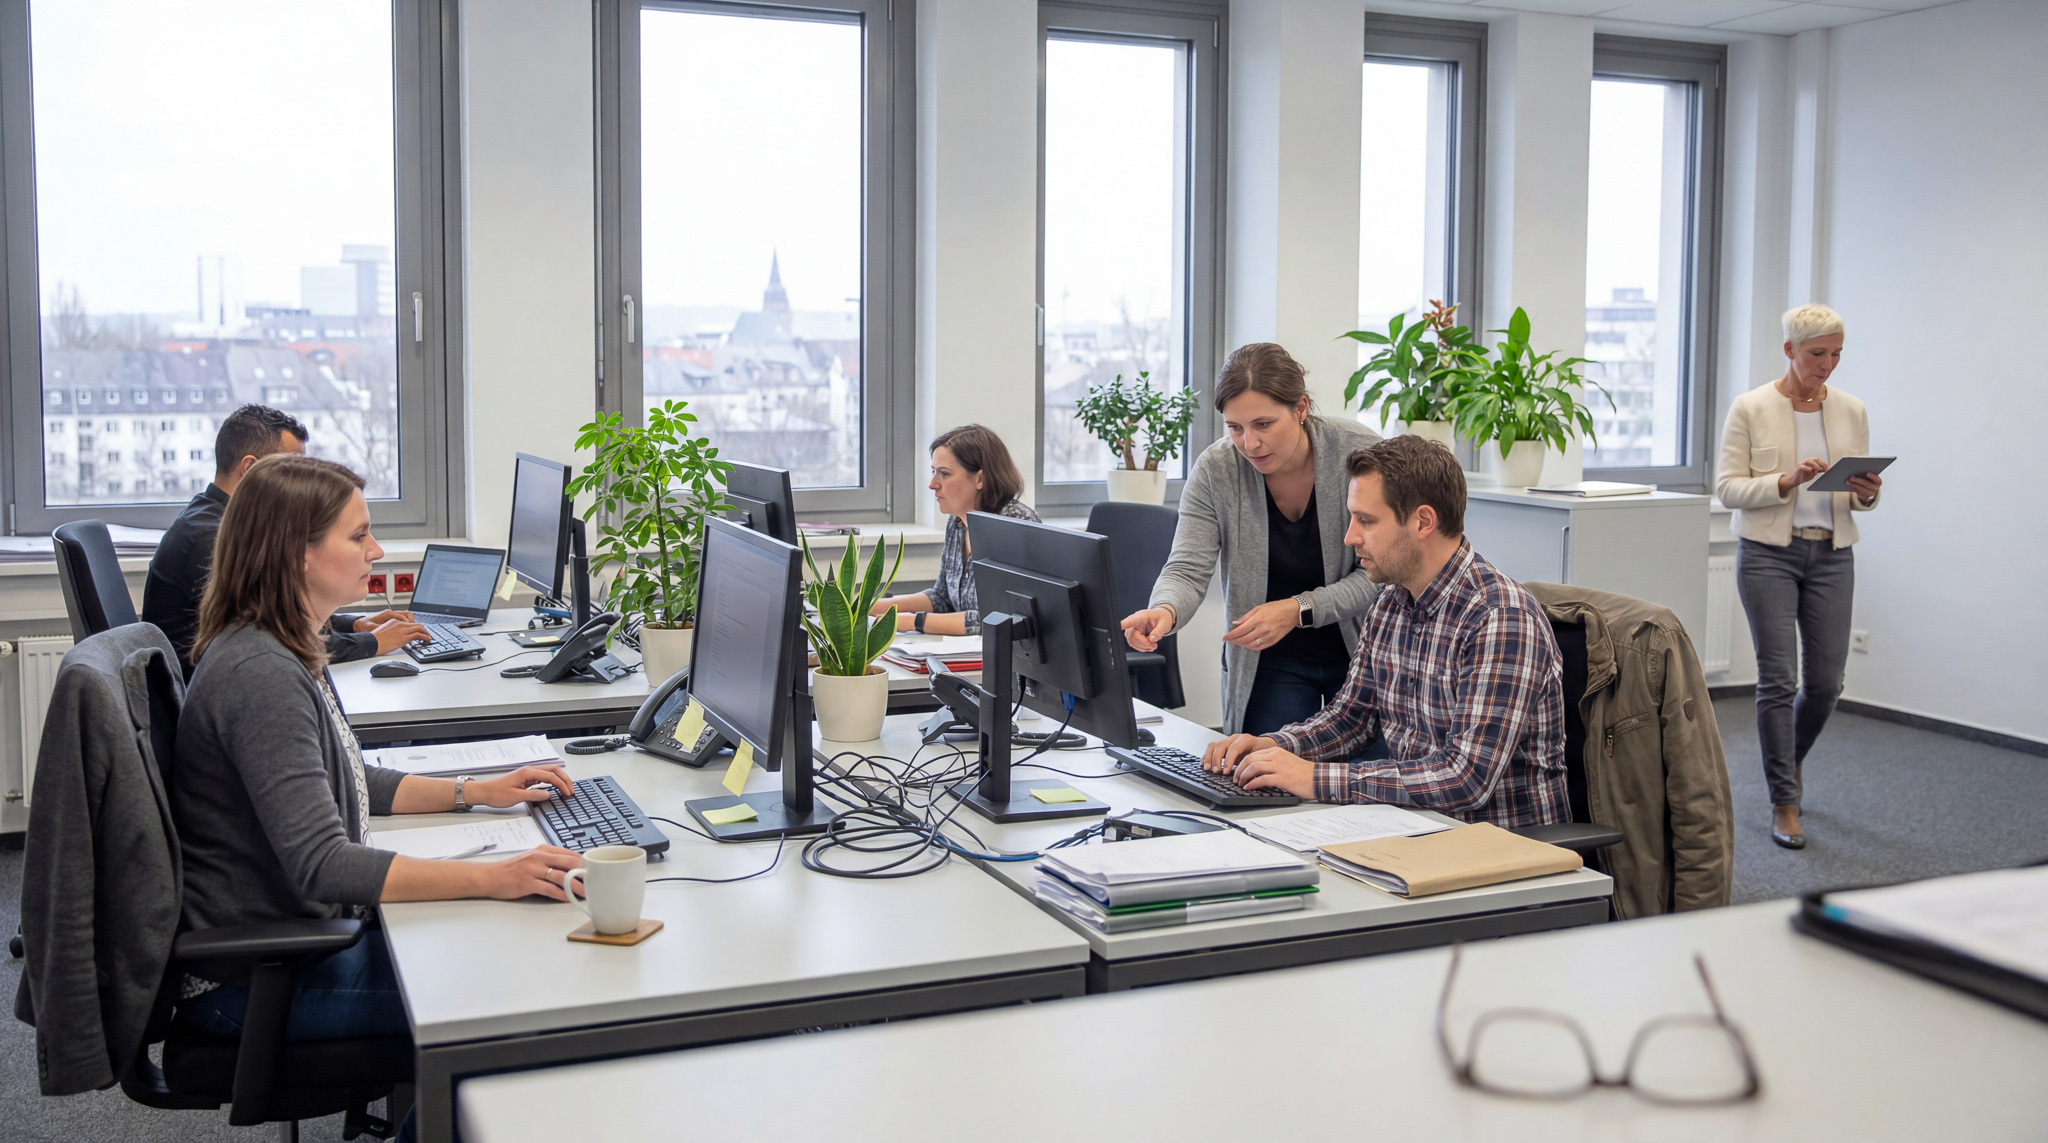
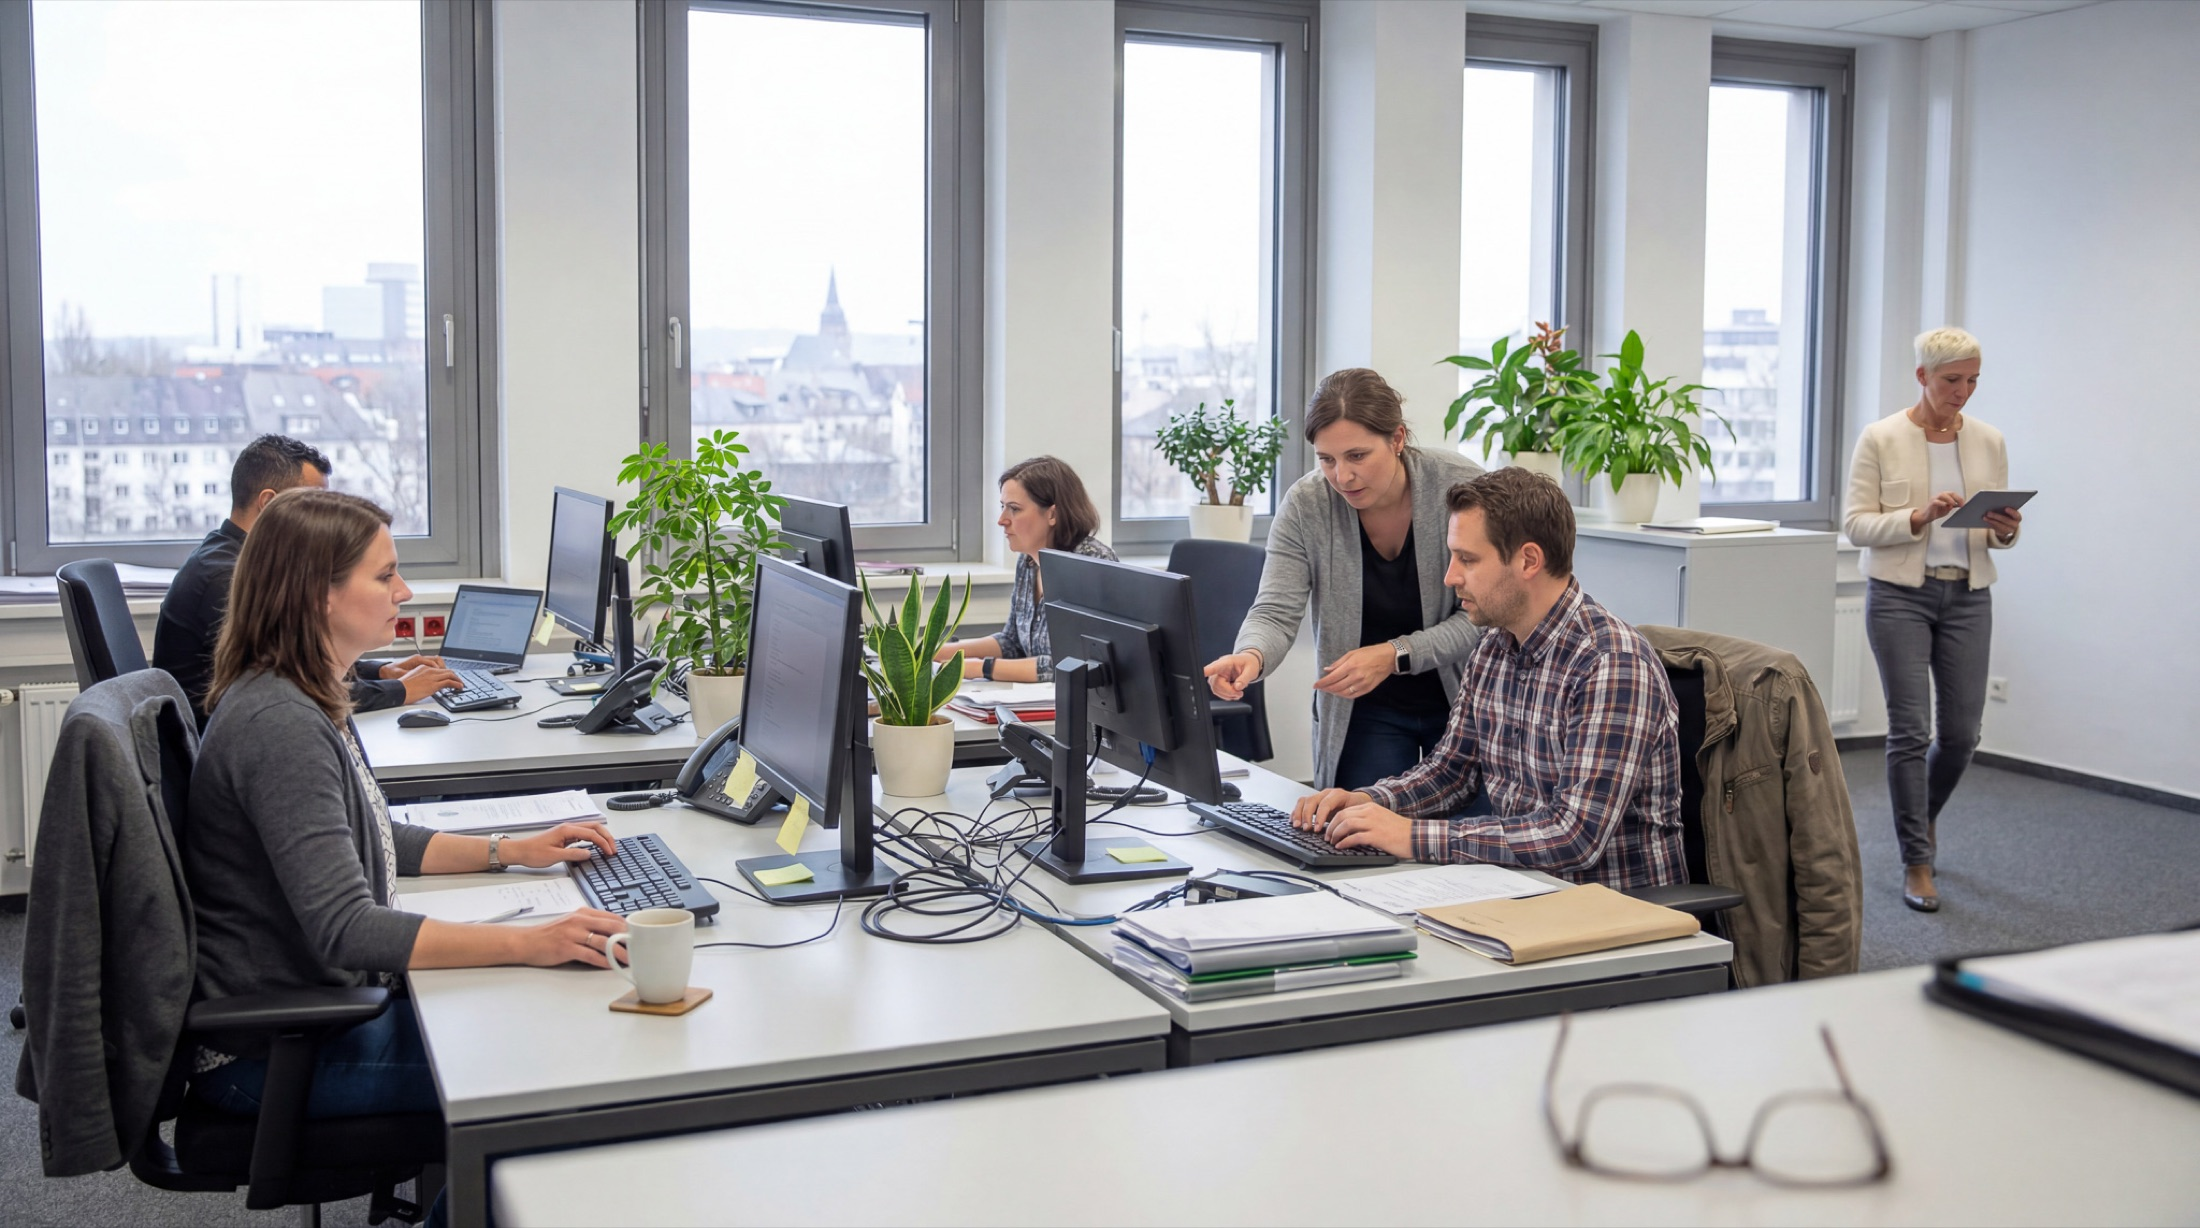
feat(wissen+themenfeld): immersiver Wissen-Hero + Themenfeld-Direkteinstieg
- Wissen-Seite: Text-Header → immersiver Vollbild-Hero analog zur Startseite
  (Verwaltungsbüro-Motiv, Overlay, Headline/Lead darüber).
- Themenfeld-Detailseiten: keine vorgeschaltete Kategorie-Auswahlseite mehr.
  Man landet direkt auf den Tools des Themenfelds; eine Reiter-/Subnav oben
  (Alle + Kategorien, mit Counts) filtert optional nach Bereich.

Changed region(s): [[0.2812, 0.3368, 0.3438, 0.4287], [0.5625, 0.643, 0.5938, 0.6737], [0.4375, 0.6737, 0.4688, 0.7043]]

diff --git a/src/components/blocks/category/ThemenfeldTabs.tsx b/src/components/blocks/category/ThemenfeldTabs.tsx
@@ -1,0 +1,104 @@
+"use client";
+
+import { useState } from "react";
+
+import { ToolCard } from "@/components/cards/ToolCard";
+import { BrandIcon, type BrandIconName } from "@/components/icons/BrandIcon";
+import { cn } from "@/lib/utils";
+import type { CategoryDefinition, ToolCardSummary } from "@/types/content";
+
+interface ThemenfeldTabsProps {
+  categories: CategoryDefinition[];
+  toolsByCategory: Record<string, ToolCardSummary[]>;
+}
+
+/**
+ * Themenfeld-Direkteinstieg: man landet sofort auf den Tools des ganzen
+ * Themenfelds. Eine Reiter-/Subnav oben filtert optional auf eine Kategorie —
+ * keine vorgeschaltete Auswahlseite mehr.
+ */
+export function ThemenfeldTabs({
+  categories,
+  toolsByCategory,
+}: ThemenfeldTabsProps) {
+  const [active, setActive] = useState<string>("alle");
+
+  const allTools = categories.flatMap((c) => toolsByCategory[c.slug] || []);
+  const tools = active === "alle" ? allTools : toolsByCategory[active] || [];
+
+  const tabs: { slug: string; name: string; icon?: BrandIconName; count: number }[] =
+    [
+      { slug: "alle", name: "Alle Tools", count: allTools.length },
+      ...categories.map((c) => ({
+        slug: c.slug,
+        name: c.name,
+        icon: c.icon,
+        count: (toolsByCategory[c.slug] || []).length,
+      })),
+    ];
+
+  return (
+    <div>
+      {/* Reiter-/Subnav */}
+      <div
+        role="tablist"
+        aria-label="Bereich wählen"
+        className="flex flex-wrap items-center gap-2 border-b border-border pb-5"
+      >
+        {tabs.map((t) => {
+          const isActive = active === t.slug;
+          return (
+            <button
+              key={t.slug}
+              type="button"
+              role="tab"
+              aria-selected={isActive}
+              onClick={() => setActive(t.slug)}
+              className={cn(
+                "inline-flex h-9 items-center gap-2 rounded-full px-4 font-ui text-[13px] font-medium transition-colors",
+                isActive
+                  ? "bg-brand text-white"
+                  : "bg-white text-mid hover:bg-cream hover:text-dark",
+              )}
+            >
+              {t.icon && (
+                <BrandIcon
+                  name={t.icon}
+                  size={15}
+                  className={isActive ? "text-white" : "text-brand-dark"}
+                />
+              )}
+              {t.name}
+              <span
+                className={cn(
+                  "font-mono text-[11px]",
+                  isActive ? "text-white/70" : "text-soft",
+                )}
+              >
+                {t.count}
+              </span>
+            </button>
+          );
+        })}
+      </div>
+
+      {/* Tool-Liste */}
+      {tools.length > 0 ? (
+        <div className="mt-6 space-y-3">
+          {tools.map((tool) => (
+            <ToolCard key={tool.slug} tool={tool} variant="row" />
+          ))}
+        </div>
+      ) : (
+        <div className="mt-6 rounded-2xl border border-dashed border-border bg-cream p-12 text-center">
+          <p className="font-serif text-[20px] font-normal text-dark">
+            Tools in Vorbereitung
+          </p>
+          <p className="mt-2 font-sans text-[14px] text-soft">
+            Für diesen Bereich kuratieren wir gerade die passenden Tools.
+          </p>
+        </div>
+      )}
+    </div>
+  );
+}

diff --git a/src/app/(frontend)/wissen/page.tsx b/src/app/(frontend)/wissen/page.tsx
@@ -1,4 +1,5 @@
 import type { Metadata } from "next";
+import Image from "next/image";
 
 import { ArticleCard } from "@/components/cards/ArticleCard";
 import { WissenSidebar } from "@/components/sidebars/WissenSidebar";
@@ -15,25 +16,45 @@ export default function WissenIndexPage() {
 
   return (
     <>
-
-      <div className="container mx-auto px-6 lg:px-10 py-12 lg:py-20">
-        <header className="max-w-3xl space-y-5 mb-12 lg:mb-16">
-          <div className="font-mono text-[11px] font-bold uppercase tracking-[0.18em] text-brand">
-            Wissen & Magazin
+      {/* HERO — immersiv, analog zur Startseite */}
+      <section className="bg-cream">
+        <div className="container mx-auto px-4 sm:px-6 lg:px-10 pt-4 lg:pt-6 pb-8 lg:pb-12">
+          <div className="relative flex items-center overflow-hidden rounded-3xl min-h-[380px] lg:min-h-[460px]">
+            <Image
+              src="/brand/Images/magnific_open-office-inside-a-germ_UyKJgh9wny.jpg"
+              alt="Mitarbeitende in einem Verwaltungsbüro bei der Arbeit"
+              fill
+              sizes="(min-width: 1024px) 1200px, 100vw"
+              className="object-cover"
+              priority
+            />
+            <div aria-hidden className="absolute inset-0 bg-black/15" />
+            <div
+              aria-hidden
+              className="absolute inset-0 bg-gradient-to-r from-black/75 via-black/35 to-transparent"
+            />
+            <div className="relative z-10 max-w-xl p-7 sm:p-10 lg:p-12">
+              <div className="flex items-center gap-2 font-mono text-[11px] font-bold uppercase tracking-[0.2em] text-white/70">
+                <span aria-hidden className="h-1.5 w-1.5 rounded-full bg-accent" />
+                Wissen & Magazin
+              </div>
+              <h1
+                style={{ lineHeight: 1.05 }}
+                className="mt-5 font-serif text-[clamp(32px,4.4vw,56px)] font-normal tracking-tight text-white"
+              >
+                Was diese Woche zählt.
+              </h1>
+              <p className="mt-5 font-sans text-[16px] lg:text-[18px] leading-[1.6] text-white/85">
+                Redaktionelle Beiträge, Leitfäden und aktuelle Themen aus der
+                digitalen Verwaltung — geschrieben von Menschen, die selbst aus
+                der Verwaltung kommen.
+              </p>
+            </div>
           </div>
-          <h1
-            style={{ lineHeight: 1.05 }}
-            className="font-serif text-[clamp(34px,4.4vw,56px)] font-normal tracking-tight text-dark"
-          >
-            Was diese Woche zählt.
-          </h1>
-          <p className="font-sans text-[18px] leading-[1.7] text-mid">
-            Redaktionelle Beiträge, Leitfäden und aktuelle Themen aus der
-            digitalen Verwaltung. Geschrieben von Menschen, die selbst aus der
-            Verwaltung kommen — oder sehr lange dort gearbeitet haben.
-          </p>
-        </header>
+        </div>
+      </section>
 
+      <div className="container mx-auto px-6 lg:px-10 pb-12 lg:pb-20">
         {/* Zwei-Spalten: Hauptbereich + Archiv-Sidebar */}
         <div className="grid lg:grid-cols-[minmax(0,1fr)_300px] gap-12 lg:gap-16 items-start">
           <div className="min-w-0">

diff --git a/src/app/(frontend)/themenfelder/[slug]/page.tsx b/src/app/(frontend)/themenfelder/[slug]/page.tsx
@@ -1,10 +1,11 @@
 import type { Metadata } from "next";
 import { notFound } from "next/navigation";
 
-import { CategoryCard } from "@/components/cards/CategoryCard";
+import { ThemenfeldTabs } from "@/components/blocks/category/ThemenfeldTabs";
 import { BrandIcon } from "@/components/icons/BrandIcon";
 import { categoriesByThemenfeld } from "@/mocks/categories";
 import { themenfelder, themenfeldRegistry } from "@/mocks/themenfelder";
+import { toolCardsByCategory } from "@/mocks/tools";
 
 interface PageProps {
   params: Promise<{ slug: string }>;
@@ -32,6 +33,9 @@ export default async function ThemenfeldDetailPage({ params }: PageProps) {
   if (!tf) notFound();
 
   const cats = categoriesByThemenfeld[slug] || [];
+  const toolsByCategory = Object.fromEntries(
+    cats.map((c) => [c.slug, toolCardsByCategory[c.slug] || []]),
+  );
 
   return (
     <>
@@ -64,21 +68,20 @@ export default async function ThemenfeldDetailPage({ params }: PageProps) {
         </div>
       </header>
 
-      {/* Kategorien-Grid */}
+      {/* Tools direkt — mit Reiter-/Subnav zum Filtern nach Bereich */}
       <div className="container mx-auto px-6 lg:px-10 pb-16 lg:pb-24">
         {cats.length > 0 ? (
-          <div className="grid gap-5 sm:grid-cols-2 lg:grid-cols-3">
-            {cats.map((c) => (
-              <CategoryCard key={c.slug} category={c} />
-            ))}
-          </div>
+          <ThemenfeldTabs
+            categories={cats}
+            toolsByCategory={toolsByCategory}
+          />
         ) : (
           <div className="rounded-2xl border border-dashed border-border bg-cream p-12 text-center">
             <p className="font-serif text-[20px] font-normal text-dark">
-              Kategorien in Vorbereitung
+              Dieses Themenfeld wird gerade aufgebaut
             </p>
             <p className="font-sans text-[14px] text-soft mt-2">
-              Dieses Themenfeld wird gerade redaktionell aufgebaut.
+              Wir kuratieren hier gerade die passenden Bereiche und Tools.
             </p>
           </div>
         )}